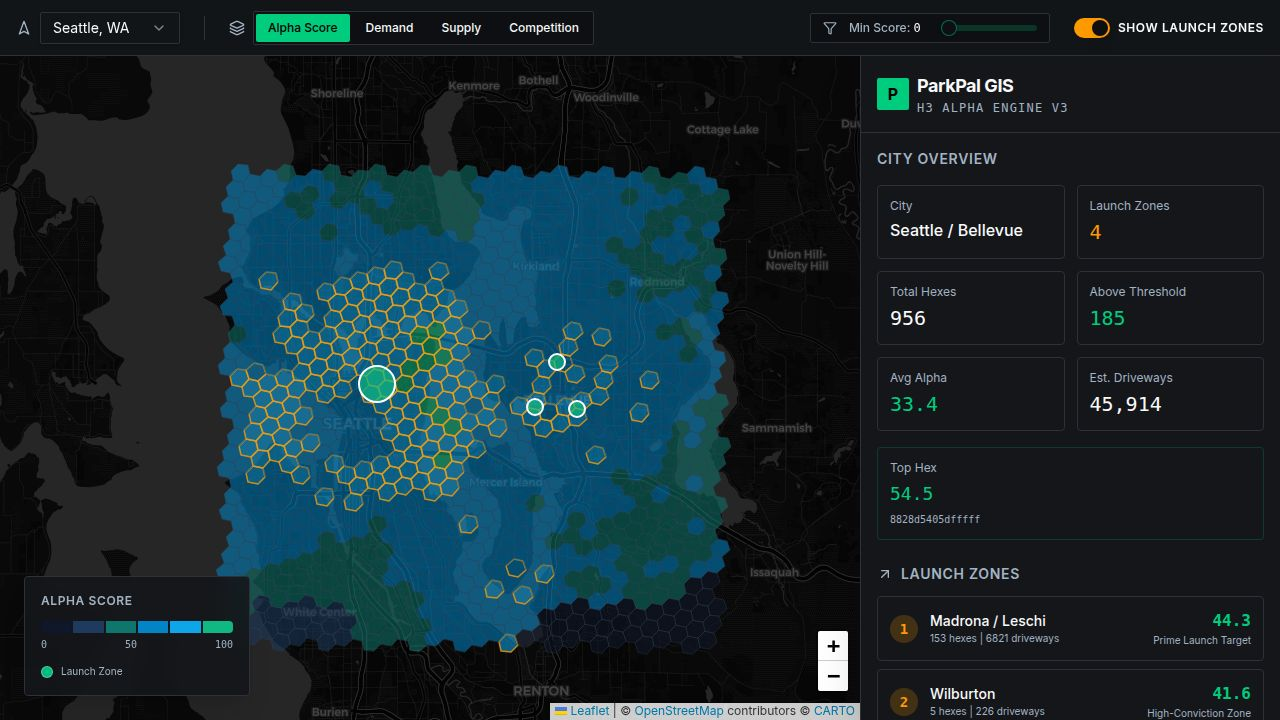
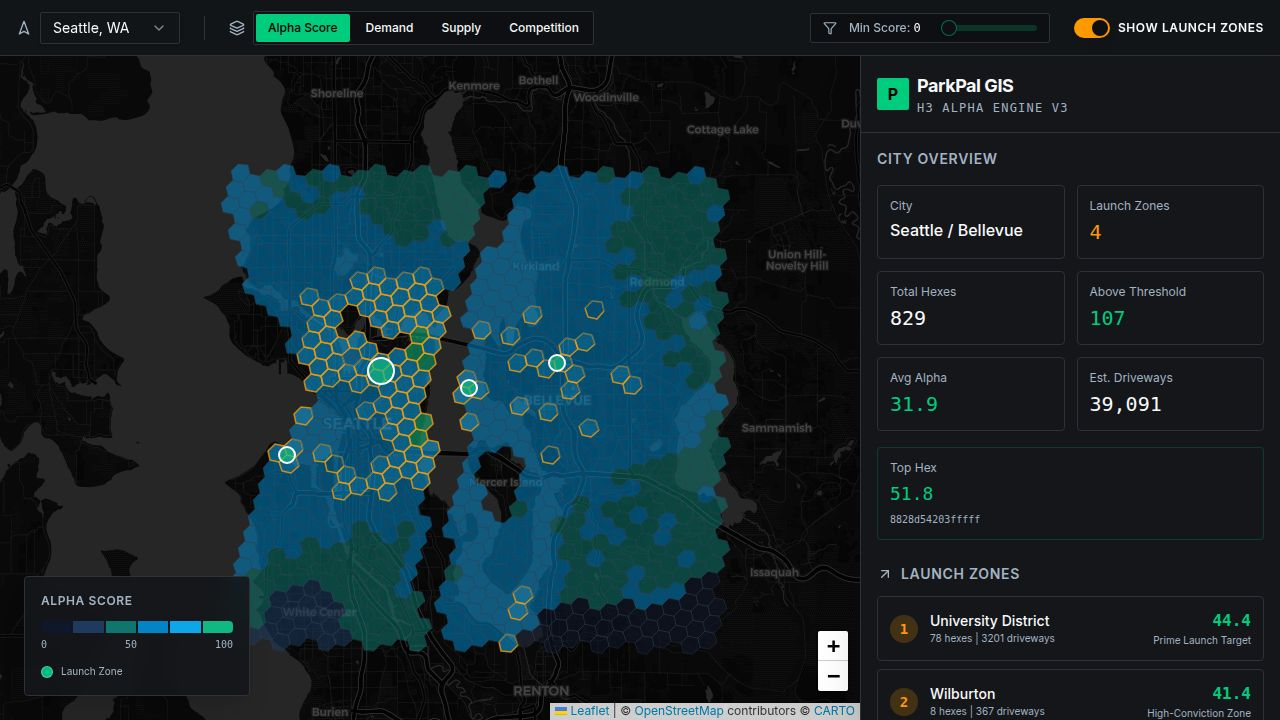
Task #3: Filter water bodies from H3 hex grid
Added water body exclusion to prevent hex cells from appearing over
Lake Washington, Puget Sound/Elliott Bay, Lake Union, and the Ship Canal.

Changes to gis-data.ts only:
- Added 4 simplified water body polygons as coordinate arrays:
  1. Lake Washington (main body, north-south between Seattle and Bellevue)
  2. Puget Sound / Elliott Bay (west of Seattle, extends to bounding box edge)
  3. Lake Union + Ship Canal corridor (central Seattle)
  4. Mercer Island narrows / south Lake Washington
- Implemented ray-casting point-in-polygon algorithm (pointInPolygon)
- Added isPointInWater() function that checks all water body polygons
- Added single-line filter in generateHexGrid(): skip hex if centroid is in water

Results:
- Hex count reduced from 956 to 829 (127 water hexes removed)
- Clear visible gap for Lake Washington between Seattle and Bellevue sides
- Puget Sound correctly excluded on west side
- Lake Union gap visible in central Seattle
- Launch Zones recalculated: 4 zones (University District, Wilburton,
  White Center, Medina/Clyde Hill) - all correctly on land
- Somerset and other waterfront neighborhoods now display on correct
  land positions east of Lake Washington
- No changes to scoring, clustering, API, or frontend code needed

diff --git a/artifacts/api-server/src/lib/gis-data.ts b/artifacts/api-server/src/lib/gis-data.ts
@@ -65,6 +65,95 @@ const ZONE_CENTERS: ZoneCenter[] = [
   { lat: 47.5250, lng: -122.3600, name: "Burien Edge", citationBase: 25, poiBase: 2, residentialBase: 55, parkingBase: 4, radius: 0.020 },
 ];
 
+type LatLngPoly = [number, number][];
+
+const WATER_BODIES: LatLngPoly[] = [
+  // Lake Washington (main body)
+  [
+    [47.500, -122.260], [47.510, -122.270], [47.520, -122.272],
+    [47.535, -122.270], [47.550, -122.268], [47.565, -122.265],
+    [47.575, -122.262], [47.585, -122.258], [47.595, -122.255],
+    [47.605, -122.258], [47.615, -122.260], [47.625, -122.258],
+    [47.635, -122.257], [47.645, -122.255], [47.655, -122.252],
+    [47.665, -122.248], [47.675, -122.244], [47.685, -122.238],
+    [47.695, -122.230], [47.705, -122.222], [47.710, -122.215],
+    [47.715, -122.208], [47.720, -122.200],
+    [47.720, -122.220], [47.715, -122.230], [47.710, -122.238],
+    [47.705, -122.245], [47.695, -122.252], [47.685, -122.258],
+    [47.675, -122.262], [47.665, -122.268], [47.655, -122.272],
+    [47.645, -122.275], [47.635, -122.278], [47.625, -122.280],
+    [47.615, -122.282], [47.605, -122.282], [47.595, -122.280],
+    [47.585, -122.278], [47.575, -122.280], [47.565, -122.282],
+    [47.555, -122.285], [47.545, -122.288], [47.535, -122.290],
+    [47.525, -122.290], [47.515, -122.288], [47.505, -122.283],
+    [47.500, -122.278],
+  ],
+  // Puget Sound / Elliott Bay (west of Seattle)
+  [
+    [47.500, -122.425], [47.510, -122.425], [47.520, -122.420],
+    [47.530, -122.415], [47.540, -122.410], [47.550, -122.405],
+    [47.560, -122.400], [47.570, -122.398], [47.580, -122.395],
+    [47.585, -122.390], [47.590, -122.385], [47.595, -122.380],
+    [47.600, -122.375], [47.605, -122.370], [47.610, -122.365],
+    [47.618, -122.360], [47.625, -122.365],
+    [47.630, -122.368], [47.636, -122.370],
+    [47.640, -122.375], [47.645, -122.380],
+    [47.650, -122.385], [47.658, -122.392],
+    [47.665, -122.400], [47.670, -122.405],
+    [47.680, -122.410], [47.690, -122.415],
+    [47.700, -122.420], [47.720, -122.425],
+    [47.720, -122.500], [47.500, -122.500],
+  ],
+  // Lake Union + Ship Canal corridor
+  [
+    [47.630, -122.348], [47.633, -122.345], [47.637, -122.340],
+    [47.640, -122.342], [47.643, -122.340], [47.645, -122.338],
+    [47.647, -122.335], [47.648, -122.330], [47.647, -122.325],
+    [47.645, -122.322], [47.643, -122.320], [47.640, -122.318],
+    [47.637, -122.316], [47.635, -122.312], [47.634, -122.308],
+    [47.634, -122.305], [47.635, -122.300], [47.636, -122.296],
+    [47.638, -122.292], [47.640, -122.290],
+    [47.645, -122.290], [47.643, -122.295],
+    [47.642, -122.300], [47.641, -122.305],
+    [47.641, -122.310], [47.642, -122.315],
+    [47.645, -122.318], [47.648, -122.320],
+    [47.652, -122.322], [47.655, -122.325],
+    [47.656, -122.330], [47.655, -122.335],
+    [47.652, -122.340], [47.648, -122.345],
+    [47.645, -122.348], [47.640, -122.350],
+    [47.636, -122.352], [47.633, -122.350],
+  ],
+  // Mercer Island gap / south Lake Washington narrows
+  [
+    [47.555, -122.230], [47.560, -122.228], [47.565, -122.225],
+    [47.575, -122.222], [47.580, -122.220], [47.585, -122.218],
+    [47.590, -122.220], [47.590, -122.240],
+    [47.585, -122.242], [47.580, -122.244],
+    [47.575, -122.245], [47.570, -122.245],
+    [47.565, -122.243], [47.560, -122.240],
+    [47.555, -122.238],
+  ],
+];
+
+function pointInPolygon(lat: number, lng: number, poly: LatLngPoly): boolean {
+  let inside = false;
+  for (let i = 0, j = poly.length - 1; i < poly.length; j = i++) {
+    const [yi, xi] = poly[i];
+    const [yj, xj] = poly[j];
+    if ((yi > lat) !== (yj > lat) && lng < ((xj - xi) * (lat - yi)) / (yj - yi) + xi) {
+      inside = !inside;
+    }
+  }
+  return inside;
+}
+
+function isPointInWater(lat: number, lng: number): boolean {
+  for (const poly of WATER_BODIES) {
+    if (pointInPolygon(lat, lng, poly)) return true;
+  }
+  return false;
+}
+
 function seededRandom(seed: number): () => number {
   let s = seed;
   return () => {
@@ -134,6 +223,7 @@ export function generateHexGrid(): HexRaw[] {
     const [lat, lng] = cellToLatLng(h3Index);
 
     if (lat < latMin || lat > latMax || lng < lngMin || lng > lngMax) continue;
+    if (isPointInWater(lat, lng)) continue;
 
     const citationCount = interpolateFromZones(lat, lng, "citationBase", rng);
     const poiCount = interpolateFromZones(lat, lng, "poiBase", rng);